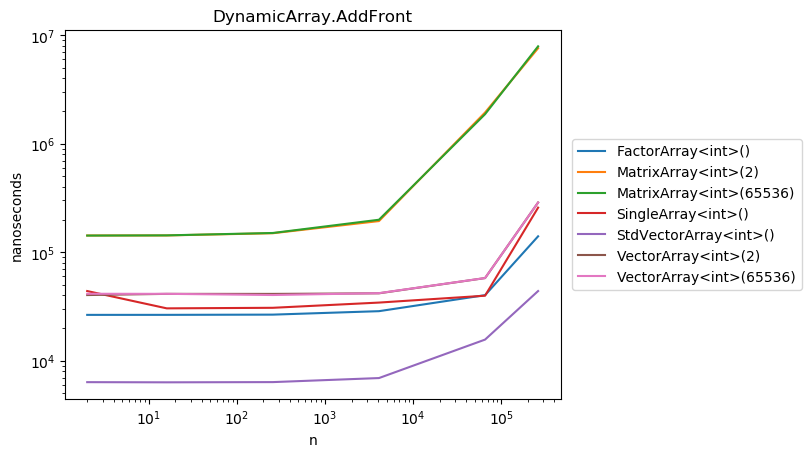
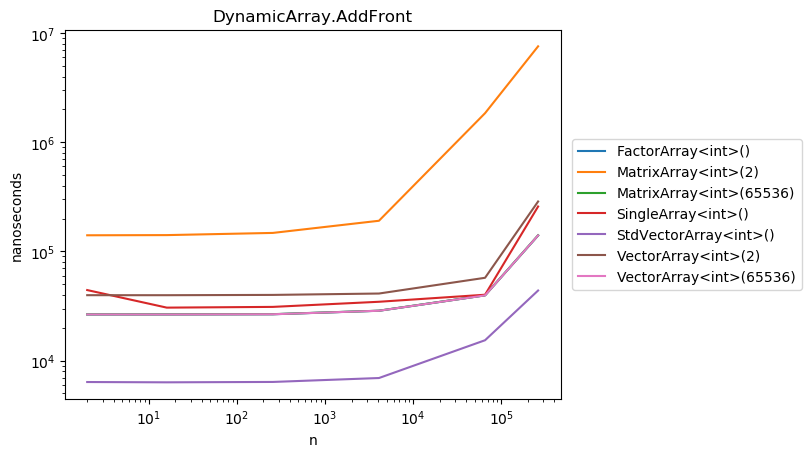
finally good performance tests

diff --git a/02_data_structures/report/README.md b/02_data_structures/report/README.md
@@ -1,4 +1,4 @@
-### Readme 
+### Нагрузочное тестирование DynamicArray 
 
 В тестировании принимали участии следующие имплементации интерфейса `DynamicArray`:
 * `SingleArray`
@@ -32,3 +32,56 @@
 Извлечение элемента массива по индексу - операция, выполняющаяся за константное время. У `MatrixArray` она 
 выполняется несколько медленнее, чем у других имплементаций, за счёт большего количества арифметических операций для вычисления адреса ячейки.
 ![Get](https://github.com/vitalyisaev2/algo-2019-04/blob/master/02_data_structures/report/Get.png)
+
+Таблица измерений:
+```
+AddFront
+type    FactorArray<int>()  MatrixArray<int>(2)  MatrixArray<int>(65536)  SingleArray<int>()  StdVectorArray<int>()  VectorArray<int>(2)  VectorArray<int>(65536)
+n                                                                                                                                                                
+2             26471.420060         1.405941e+05             26520.633440        44285.892420            6368.462470         39750.257070             26484.570250
+16            26478.239240         1.411168e+05             26515.278180        30576.527160            6328.720730         39737.307310             26466.292440
+256           26588.341650         1.477862e+05             26636.643140        31055.687010            6379.239040         39982.529350             26586.126300
+4096          28622.698480         1.909736e+05             28661.894910        34598.138970            6929.005340         41164.088125             28630.446960
+65536         39626.247307         1.846358e+06             39640.521177        40133.225299           15373.827654         57367.183954             39579.439058
+262144       139979.368453         7.561139e+06            140574.215144       257976.519941           43866.613077        286757.540563            140289.176037
+
+AddBack
+type    FactorArray<int>()  MatrixArray<int>(2)  MatrixArray<int>(65536)  SingleArray<int>()  StdVectorArray<int>()  VectorArray<int>(2)  VectorArray<int>(65536)
+n                                                                                                                                                                
+2                 7.347140          7159.775590                14.847779        26555.750270               4.831274         13316.862350               135.285176
+16                7.150823          7148.304880                14.749322        26557.549710               4.804941         13289.267310                97.122663
+256               7.147580          7273.738140                14.711076        26675.408030               4.814488         13345.841910                97.068533
+4096              7.170031          7740.047760                14.703894        28709.363020               4.804797         14364.098450                97.048936
+65536             7.151516         14364.563932                14.755182        39777.547884               4.864238         22302.796656                98.822771
+262144            7.138907         39758.522155                14.738153       140337.732207               4.810058         70800.045994               104.054538
+
+RemoveFront
+type    FactorArray<int>()  MatrixArray<int>(2)  MatrixArray<int>(65536)  SingleArray<int>()  StdVectorArray<int>()  VectorArray<int>(2)  VectorArray<int>(65536)
+n                                                                                                                                                                
+2               377.705874         5.098770e+02               412.725969          361.463594             341.917870           364.754417               341.471256
+16              396.118178         9.289093e+02               427.956992          369.215927             343.303294           382.233361               351.421837
+256             674.128273         7.674532e+03               708.633086          503.095442             368.549858           652.072396               487.499601
+4096           4813.473224         1.168701e+05              4868.220862         2626.233248             698.927629          4799.711337              2523.769940
+65536         70030.979483         1.853572e+06             35296.528131        35269.215258            8347.077027         70017.354387             70014.159093
+262144       278411.180263         7.603480e+06            139821.607753       141235.520218           41224.377114        278783.814843            278559.151213
+
+RemoveBack
+type    FactorArray<int>()  MatrixArray<int>(2)  MatrixArray<int>(65536)  SingleArray<int>()  StdVectorArray<int>()  VectorArray<int>(2)  VectorArray<int>(65536)
+n                                                                                                                                                                
+2               377.197363           419.362418               418.457617          370.267459             340.574834           340.784564               340.564031
+16              346.731083           418.401914               383.540790          369.811570             340.590962           340.853292               341.078234
+256             347.069668           419.555883               381.689515          503.476032             340.762944           340.695416               340.640376
+4096            346.735533           418.385965               382.062957         2628.171156             340.816259           340.424695               341.145211
+65536           346.743305           418.168368               381.874251        35304.138220             340.866783           340.521588               340.888721
+262144          346.930982           418.427864               383.128810       140007.804717             341.412497           343.404304               340.645581
+
+Get
+type    FactorArray<int>()  MatrixArray<int>(2)  MatrixArray<int>(65536)  SingleArray<int>()  StdVectorArray<int>()  VectorArray<int>(2)  VectorArray<int>(65536)
+n                                                                                                                                                                
+2                 2.114632            18.481802                18.531669            2.114990               1.850383             2.116942                 2.117276
+16                2.113992            18.527047                17.705823            2.116765               1.849346             2.114426                 2.114152
+256               2.118763            18.247181                17.706182            2.115365               1.851155             2.115029                 2.114277
+4096              2.162890            18.451479                17.708588            2.115524               1.852534             2.113279                 2.115104
+65536             2.116722            18.444158                17.707030            2.115255               1.850796             2.114076                 2.115255
+262144            2.113695            18.496193                18.243901            2.122755               1.852851             2.117001                 2.114818
+```
